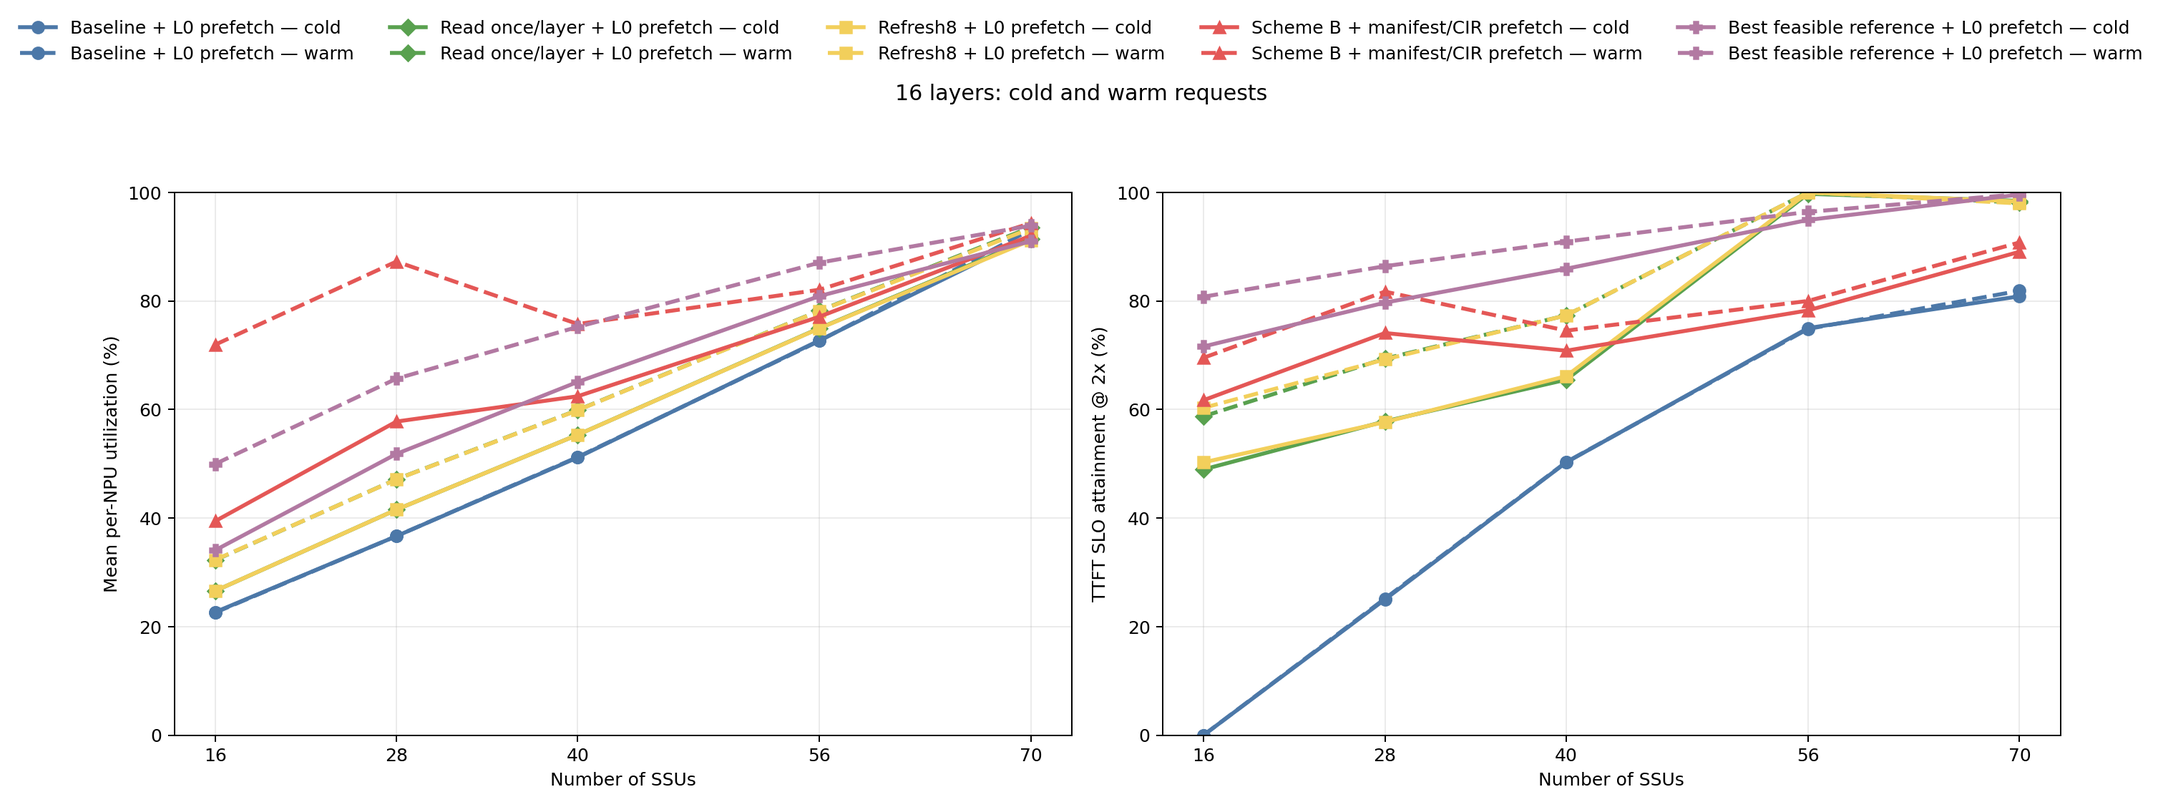
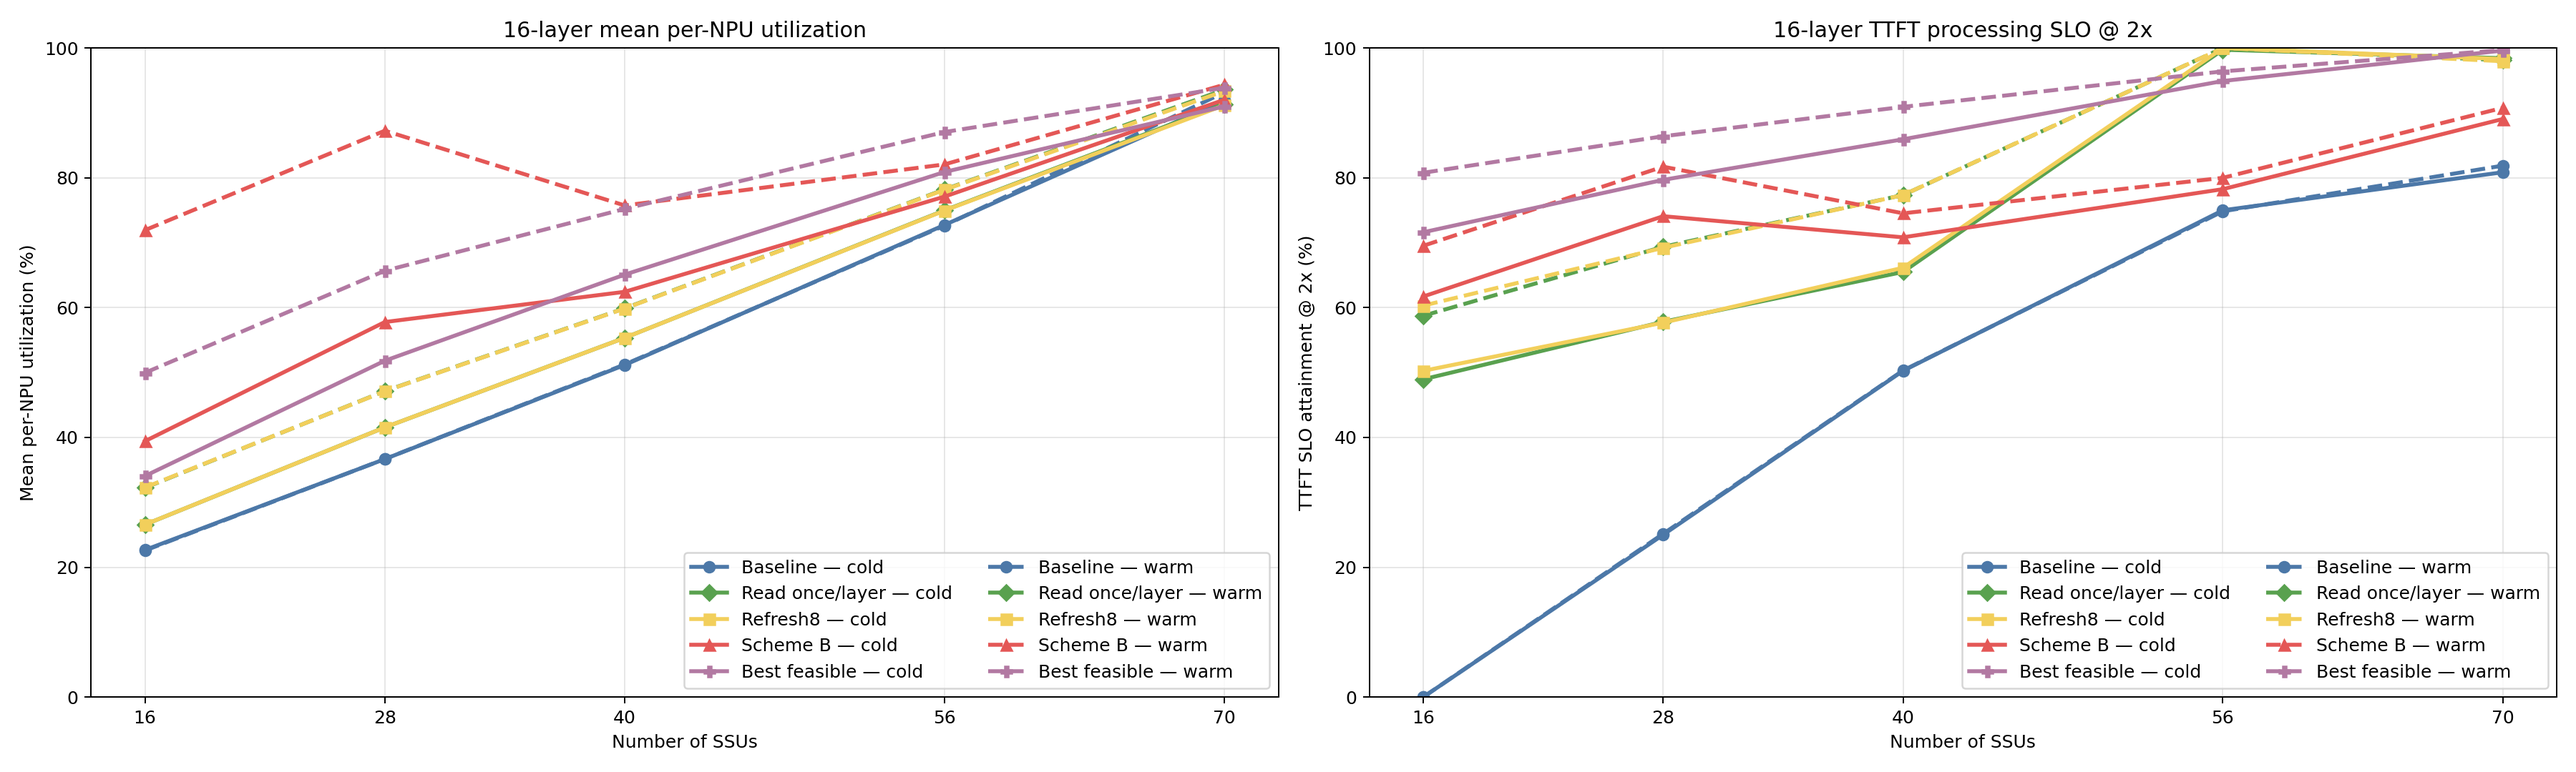
Use original Matplotlib plot style

diff --git a/analyze_cold_warm.py b/analyze_cold_warm.py
@@ -26,6 +26,13 @@ LABELS = {
     "modified_scheme_b": "Scheme B + manifest/CIR prefetch",
     "modified_best_feasible": "Best feasible reference + L0 prefetch",
 }
+PLOT_LABELS = {
+    "modified_baseline": "Baseline",
+    "modified_layer_once": "Read once/layer",
+    "modified_refresh8": "Refresh8",
+    "modified_scheme_b": "Scheme B",
+    "modified_best_feasible": "Best feasible",
+}
 COLORS = {
     "modified_baseline": "#4C78A8",
     "modified_layer_once": "#59A14F",
@@ -604,20 +611,28 @@ def write_layer16_plot(path, analysis):
     matplotlib.use("Agg")
     import matplotlib.pyplot as plt
 
+    from experiment import plot_axis
+
     n_layers = 16
     ssus = analysis["ssu_list"]
     if n_layers not in analysis["layer_list"]:
         raise ValueError("16-layer results are missing from the analysis")
 
-    figure, axes = plt.subplots(1, 2, figsize=(15.5, 6.2), sharex=True)
+    figure, axes = plt.subplots(1, 2, figsize=(20, 6), sharex=True)
     metric_specs = (
         (
             "mean_npu_utilization",
+            "16-layer mean per-NPU utilization",
             "Mean per-NPU utilization (%)",
         ),
-        ("ttft_slo", f"TTFT SLO attainment @ {PLOT_ALPHA:g}x (%)"),
+        (
+            "ttft_slo",
+            f"16-layer TTFT processing SLO @ {PLOT_ALPHA:g}x",
+            f"TTFT SLO attainment @ {PLOT_ALPHA:g}x (%)",
+        ),
     )
-    for axis, (metric_name, ylabel) in zip(axes, metric_specs):
+    for axis, (metric_name, title, ylabel) in zip(axes, metric_specs):
+        series = []
         for strategy in analysis["strategies"]:
             for cohort, linestyle in (("cold", "-"), ("warm", "--")):
                 values = []
@@ -631,34 +646,31 @@ def write_layer16_plot(path, analysis):
                         else point[metric_name][_alpha_key(PLOT_ALPHA)]["attainment"]
                     )
                     values.append(100.0 * value)
-                axis.plot(
-                    ssus,
-                    values,
-                    color=COLORS[strategy],
-                    marker=MARKERS[strategy],
-                    linestyle=linestyle,
-                    linewidth=2.2,
-                    markersize=6.5,
-                    label=f"{LABELS[strategy]} — {cohort}",
+                series.append(
+                    {
+                        "label": f"{PLOT_LABELS[strategy]} — {cohort}",
+                        "style": f"{MARKERS[strategy]}{linestyle}",
+                        "values": values,
+                        "plot_kwargs": {"color": COLORS[strategy]},
+                    }
                 )
-        axis.set_xlabel("Number of SSUs")
-        axis.set_ylabel(ylabel)
-        axis.set_xticks(ssus)
-        axis.set_ylim(0.0, 100.0)
-        axis.grid(alpha=0.25)
+        plot_axis(
+            axis,
+            {
+                "ssus": ssus,
+                "series": series,
+                "title": title,
+                "ylabel": ylabel,
+                "legend": {
+                    "loc": "lower right",
+                    "ncol": 2,
+                    "row_major": True,
+                },
+            },
+        )
 
-    handles, labels = axes[0].get_legend_handles_labels()
-    figure.legend(
-        handles,
-        labels,
-        loc="upper center",
-        ncol=len(analysis["strategies"]),
-        frameon=False,
-        bbox_to_anchor=(0.5, 1.01),
-    )
-    figure.suptitle("16 layers: cold and warm requests", y=0.91)
-    figure.tight_layout(rect=(0.0, 0.0, 1.0, 0.86))
-    figure.savefig(path, dpi=180, bbox_inches="tight")
+    figure.tight_layout()
+    figure.savefig(path, dpi=180)
     plt.close(figure)
 
 

diff --git a/experiment.py b/experiment.py
@@ -132,22 +132,19 @@ def compact_summary(full):
         "request_metrics": full["request_metrics"],
     }
 
-def plot_results(data, output_path):
-    """Plot one or more SSU utilization series with the original style."""
-    import matplotlib
 
-    matplotlib.use("Agg")
-    import matplotlib.pyplot as plt
-
+def plot_axis(axis, data):
+    """Plot SSU series on one axis with the original experiment style."""
     ssus = data["ssus"]
-    figure, axis = plt.subplots(figsize=(10, 6))
     for series in data["series"]:
+        plot_kwargs = dict(series.get("plot_kwargs", {}))
         axis.plot(
             ssus,
             series["values"],
             series.get("style", "o-"),
             linewidth=2.2,
             label=series["label"],
+            **plot_kwargs,
         )
     axis.set(
         xlabel="Number of SSUs",
@@ -175,6 +172,17 @@ def plot_results(data, output_path):
         axis.legend(handles, labels, **legend)
     else:
         axis.legend(**legend)
+
+
+def plot_results(data, output_path):
+    """Plot one or more SSU utilization series with the original style."""
+    import matplotlib
+
+    matplotlib.use("Agg")
+    import matplotlib.pyplot as plt
+
+    figure, axis = plt.subplots(figsize=(10, 6))
+    plot_axis(axis, data)
     figure.tight_layout()
     output_path.parent.mkdir(parents=True, exist_ok=True)
     figure.savefig(output_path, dpi=180)
